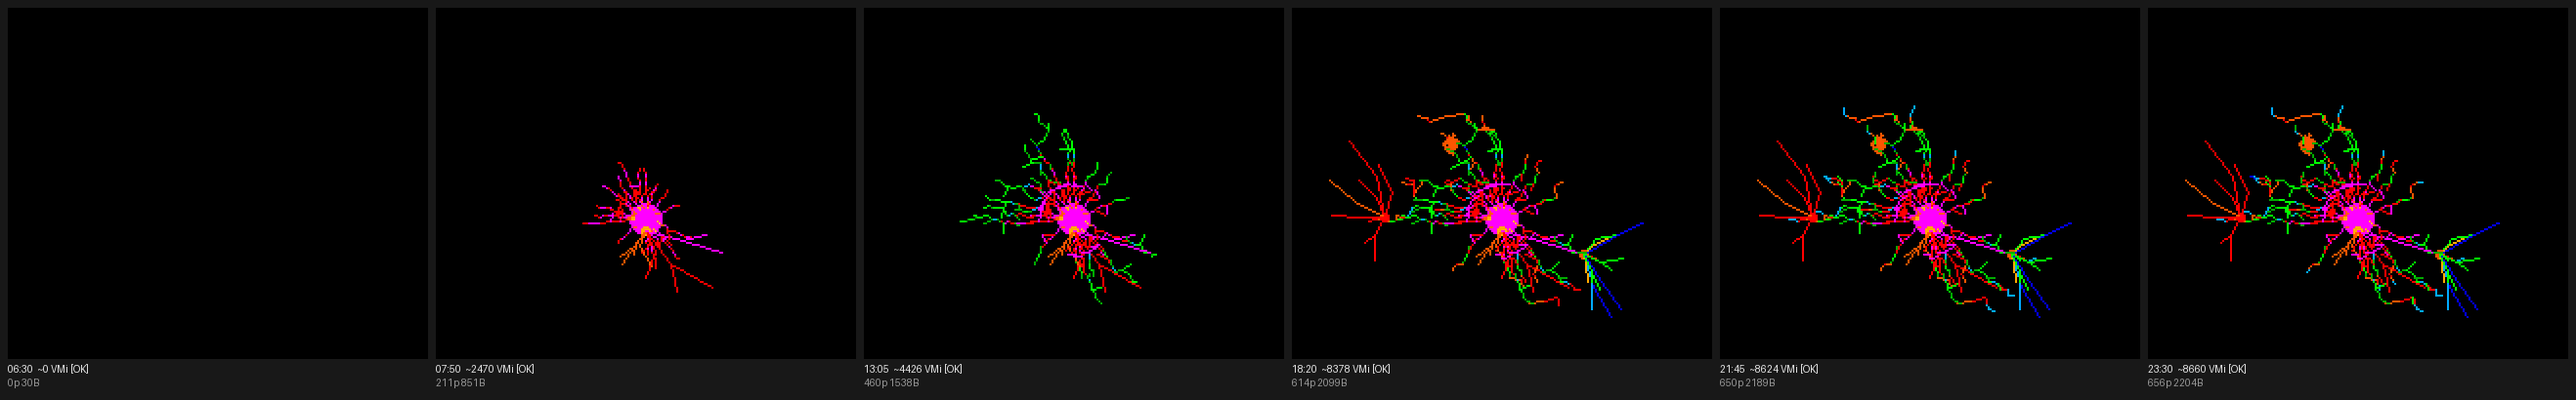
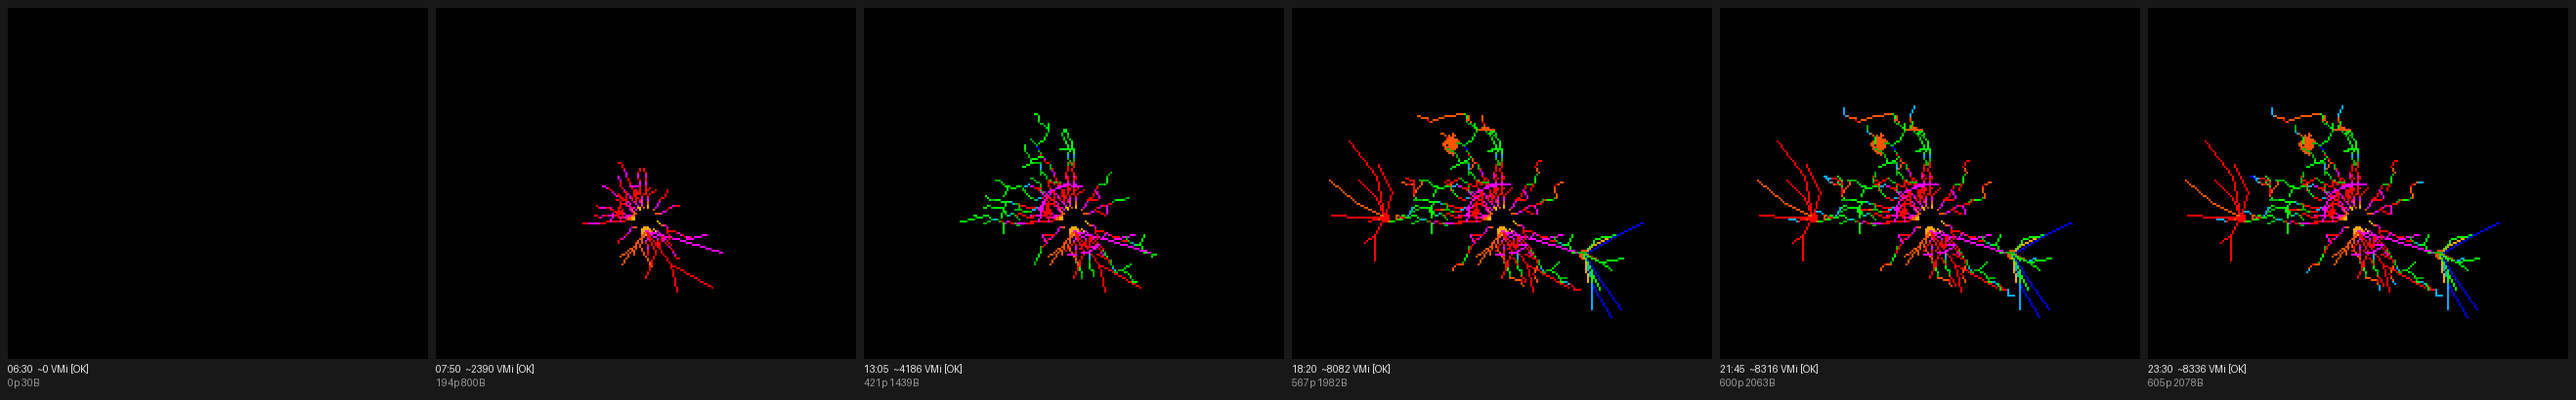
sandbox: harness to measure parametric-skeleton save/load cost
Adds sketches/save_compare.py: runs a real simulated day through the shipped
biobloom dish, then computes the save payload from the live end-of-day state
under four codecs (current vertex dump, every-3rd vertex, parametric arms with
colour bands, parametric arms with no colour / colony-LUT tint) and renders an
original-vs-reload fidelity strip across a regeneration-amp sweep.

Findings on a real active day: the skeleton is ~74% of the save payload, and
arm colour is high-entropy (~15 changes/arm) so RLE barely compresses it.
Measured reductions: every-3rd -12%, parametric+colour -19%, parametric
no-colour -52%. Regenerating arms with a fixed amp~3 recovers the organic
wander, so reload fidelity holds. Exploratory only -- no .mc changes.

diff --git a/sketches/save_compare.py b/sketches/save_compare.py
@@ -1,0 +1,256 @@
+#!/usr/bin/env python3
+"""save_compare.py — quantify the parametric-skeleton save/load idea.
+
+Runs a REAL simulated day through the shipped biobloom BioBloom, then computes
+two save-payload sizes from the SAME live end-of-day dish:
+
+  current     — what BioBloom.save() writes today (every-other skeleton vertex
+                + tip, per the compact codec)
+  parametric  — store each arm as (a0, L, next, v, np) + a packed colour-band
+                list (run-length of the per-vertex colours), NO vertex dump;
+                arms are regenerated from a0 by replaying the wiggle walk on load
+
+Only the skeleton section differs; blooms/colony/header are identical, so the
+delta isolates exactly the change under consideration. It also renders the
+end-of-day dish next to the SAME dish after a parametric save->reload (arms
+regenerated with a fixed amp) so the fidelity cost is visible.
+
+    python3 sketches/save_compare.py [--day active|rest] [--seed N]
+"""
+import argparse
+import importlib.util
+import math
+import os
+import sys
+
+from PIL import Image, ImageDraw
+
+HERE = os.path.dirname(os.path.abspath(__file__))
+sys.path.insert(0, HERE)
+
+import device
+from device import idiv, imod, isin, hash16, COLOR_DK_GRAY
+from day import synthetic_day
+
+
+def load_mod(name):
+    path = os.path.join(HERE, "algos", name + ".py")
+    spec = importlib.util.spec_from_file_location("algo_" + name, path)
+    m = importlib.util.module_from_spec(spec)
+    spec.loader.exec_module(m)
+    return m
+
+
+bb = load_mod("biobloom")
+CX, CY, R0, STEP, UNIT = bb.CX, bb.CY, bb.R0, bb.STEP, bb.UNIT
+
+
+class Tracked(bb.BioBloom):
+    """biobloom BioBloom that also accretes, per arm, the seed angle a0 and a
+    run-length colour-band list cb=[(rEnd, colour), ...] — exactly what the
+    parametric codec would persist instead of the vertex dump. Live render is
+    UNCHANGED (it still uses the cached pts), so in-session visuals are identical
+    to the shipped face; only the save model differs."""
+
+    def __init__(self, *a, **k):
+        super().__init__(*a, **k)
+        for f in self.fil:
+            f["a0"] = f["a"]
+            f["cb"] = [(R0, f["pts"][0][2])]
+
+    def _grow_fil(self, f, move, vrange, color):
+        n0 = len(f["pts"])
+        super()._grow_fil(f, move, vrange, color)
+        if len(f["pts"]) > n0:
+            r_end = R0 + (len(f["pts"]) - 1) * STEP
+            if f["cb"] and f["cb"][-1][1] == color:
+                f["cb"][-1] = (r_end, color)
+            else:
+                f["cb"].append((r_end, color))
+
+    def advance(self, snap):
+        super().advance(snap)
+        for f in self.fil:                 # tag any newly-branched arm
+            if "a0" not in f:
+                f["a0"] = f["a"]
+                f["cb"] = [(R0, f["pts"][0][2])]
+
+
+# ---- save-payload sizing (slot counts, mirrors BioBloom.save() exactly) ------
+
+def _common_slots(bbm):
+    """header + win + bloom + colony slots — identical in both codecs."""
+    n = 1 + 20 + 1                              # magic + header/win + nfil
+    n += 1                                      # nbloom
+    for b in bbm.blooms:
+        n += 10 + (len(b["bands"]) + 1) // 2    # 10 scalars + packed bands
+    n += 2                                      # colreach, coln
+    n += (len(bbm.colony["bands"]) + 1) // 2
+    return n
+
+
+def slots_current(bbm):
+    n = _common_slots(bbm)
+    for f in bbm.fil:
+        np = len(f["pts"])
+        n += 5 + np // 2 + 1                     # 5 scalars + every-other + tip
+    return n
+
+
+def slots_parametric(bbm):
+    n = _common_slots(bbm)
+    for f in bbm.fil:
+        n += 5 + (len(f["cb"]) + 1) // 2         # 5 scalars + packed colour bands
+    return n
+
+
+def slots_parametric_nocolor(bbm):
+    """Arms carry NO colour at all — coloured at render by the colony LUT
+    (HR-zone vs radius), which already exists. Just 5 scalars per arm."""
+    n = _common_slots(bbm)
+    n += 5 * len(bbm.fil)
+    return n
+
+
+def slots_every_third(bbm):
+    """Conservative, NO regeneration: store every 3rd vertex + tip instead of
+    every 2nd; rebuild the two in-between by interpolation. Live look unchanged."""
+    n = _common_slots(bbm)
+    for f in bbm.fil:
+        np = len(f["pts"])
+        n += 5 + np // 3 + 2
+    return n
+
+
+# ---- parametric reload: regenerate arm vertices from (a0, np, cb) ------------
+
+def _color_at(cb, rr):
+    for (r_end, c) in cb:
+        if rr <= r_end:
+            return c
+    return cb[-1][1]
+
+
+def reconstruct_pts(a0, np, cb, amp=1):
+    """Replay the wiggle walk from a0 (the codec drops the vertices), colouring
+    each vertex from the band list. amp is fixed (the live walk used a
+    HR-variability-driven amp we no longer store — this is the fidelity trade)."""
+    pts = []
+    a = a0
+    for k in range(np):
+        rr = R0 + k * STEP
+        if k > 0:
+            da = idiv(isin(hash16(a, rr, 1) & 255) * amp, 127)
+            a = imod(a + da, 256)
+        x = CX + idiv(rr * isin(a + 64), 127)
+        y = CY + idiv(rr * isin(a), 127)
+        pts.append((x, y, _color_at(cb, rr)))
+    return a, pts
+
+
+def _colony_lut(bbm):
+    """radius -> colour from the colony bands (mirrors _fill_lut / drawFur)."""
+    bands = bbm.colony["bands"]
+    lut = [device.COLOR_DK_GRAY] * (bb.CR_MAX + 1)
+    if not bands:
+        return lut
+    bi = 0
+    n = len(bands)
+    for r in range(bb.CR_MAX + 1):
+        while bi < n and bands[bi][1] < r:
+            bi += 1
+        lut[r] = bands[bi][2] if bi < n else bands[n - 1][2]
+    return lut
+
+
+def reloaded_clone(bbm, amp=1, nocolor=False):
+    """A clone with every arm's pts regenerated from (a0, np, cb) — what a
+    parametric load() reconstructs. nocolor=True drops the stored colour bands
+    and tints arms from the colony radius-LUT instead (the -52% variant)."""
+    import copy
+    c = copy.deepcopy(bbm)
+    lut = _colony_lut(bbm) if nocolor else None
+    for f in c.fil:
+        cb = [(bb.CR_MAX, None)] if nocolor else f["cb"]
+        a_end, pts = reconstruct_pts(f["a0"], len(f["pts"]), cb, amp)
+        if nocolor:
+            pts = [(x, y, lut[r] if (r := bb.R0 + k * STEP) <= bb.CR_MAX
+                    else lut[bb.CR_MAX]) for k, (x, y, _) in enumerate(pts)]
+        f["pts"] = pts
+        f["a"] = a_end
+    return c
+
+
+def render(bbm, snap, scale=2):
+    dc = device.Dc(device.COLOR_BLACK)
+    bbm.render(dc, snap)
+    return dc.masked().resize((device.W * scale, device.H * scale), Image.NEAREST)
+
+
+def main():
+    ap = argparse.ArgumentParser()
+    ap.add_argument("--day", default="active")
+    ap.add_argument("--seed", type=int, default=1)
+    ap.add_argument("--out", default=os.path.join(HERE, "out", "save-compare.png"))
+    args = ap.parse_args()
+
+    snaps = synthetic_day(seed=args.seed, profile=args.day)
+    bbm = Tracked()
+
+    checkpoints = {13 * 60 + 5: "13:05", 18 * 60 + 20: "18:20",
+                   21 * 60 + 45: "21:45", 23 * 60 + 30: "23:30"}
+    rows = []
+    worst_cur = worst_par = 0
+    for t in range(1440):
+        bbm.advance(snaps[t])
+        cur, par = slots_current(bbm), slots_parametric(bbm)
+        worst_cur, worst_par = max(worst_cur, cur), max(worst_par, par)
+        if t in checkpoints:
+            nv = sum(len(f["pts"]) for f in bbm.fil)
+            ncb = sum(len(f["cb"]) for f in bbm.fil)
+            rows.append((checkpoints[t], len(bbm.fil), nv, ncb, cur, par))
+
+    print("day=%s seed=%d  (%d arms max)" % (args.day, args.seed, bb.KMAX))
+    print("%-7s %4s %6s %6s | %7s %9s %7s" %
+          ("time", "arms", "verts", "cbands", "current", "parametric", "saved"))
+    for (lab, na, nv, ncb, cur, par) in rows:
+        print("%-7s %4d %6d %6d | %5d sl %7d sl %5d%%" %
+              (lab, na, nv, ncb, cur, par, round(100 * (cur - par) / cur)))
+    print("-" * 60)
+    cur = slots_current(bbm)
+    print("end-of-day save payload (slots / ~KB / vs current):")
+    for lab, fn in (("current (ship)", slots_current),
+                    ("parametric +colour bands", slots_parametric),
+                    ("every-3rd vertex (no regen)", slots_every_third),
+                    ("parametric, NO colour (colony LUT)", slots_parametric_nocolor)):
+        v = fn(bbm)
+        print("  %-36s %4d sl  ~%.1f KB  -%d%%"
+              % (lab, v, v * 5 / 1024, round(100 * (cur - v) / cur)))
+
+    # Fidelity: end-of-day dish vs the same dish after a parametric save->reload,
+    # sweeping the regeneration amp to see if the organic wander is recoverable.
+    end = snaps[23 * 60 + 30]
+    panels = [
+        ("original (ship, -0%)", render(bbm, end)),
+        ("parametric +colour, amp3 (-19%)",
+         render(reloaded_clone(bbm, 3), end)),
+        ("parametric NO colour, amp3 (-52%)",
+         render(reloaded_clone(bbm, 3, nocolor=True), end)),
+    ]
+    pw, ph = panels[0][1].size
+    pad = 8
+    W = len(panels) * pw + (len(panels) + 1) * pad
+    H = ph + pad * 2 + 14
+    strip = Image.new("RGB", (W, H), (24, 24, 24))
+    d = ImageDraw.Draw(strip)
+    for i, (lab, img) in enumerate(panels):
+        x = pad + i * (pw + pad)
+        strip.paste(img, (x, pad))
+        d.text((x, pad + ph + 2), lab, fill=(230, 230, 230))
+    os.makedirs(os.path.dirname(args.out), exist_ok=True)
+    strip.save(args.out)
+    print("fidelity strip -> %s" % args.out)
+
+
+if __name__ == "__main__":
+    main()
